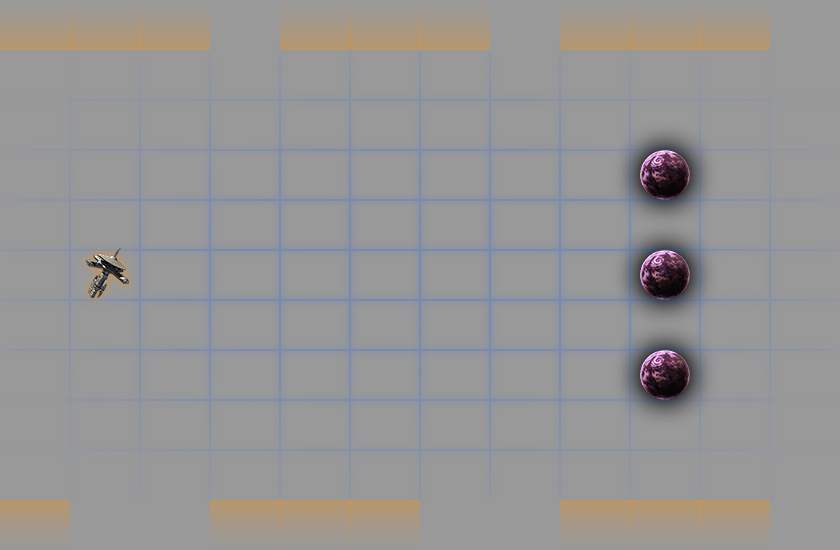
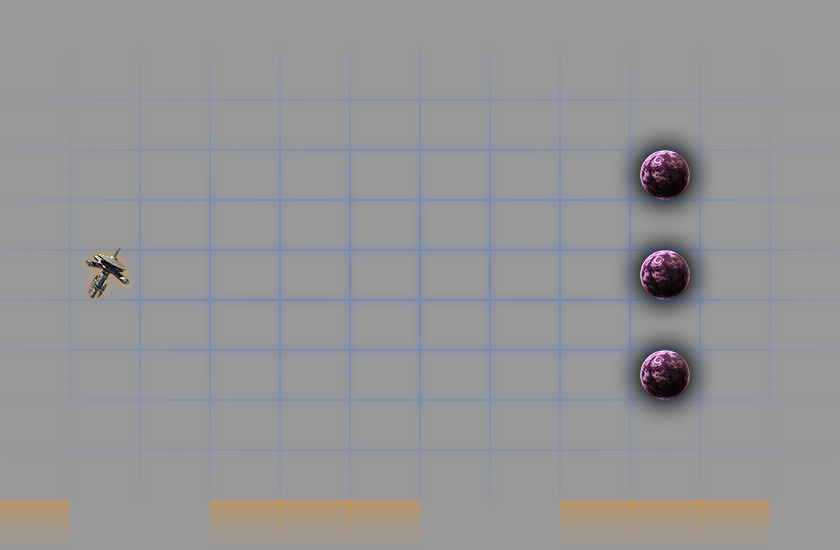
(feat) Update board art and add remaining routes bar sprite

Changed region(s): [[0.65, 0.0309, 0.9286, 0.0927], [0.3095, 0.0309, 0.5881, 0.0927], [0.0, 0.0309, 0.2476, 0.0927]]

diff --git a/client/phaser-app/game.js b/client/phaser-app/game.js
@@ -8,6 +8,7 @@ var gameState = {
     game.load.image('planet-true', 'phaser-app/assets/planet-true.png');
     game.load.image('planet-false', 'phaser-app/assets/planet-false.png');
     game.load.image('discard', 'phaser-app/assets/discard-icon.png');
+    game.load.image('remaining-routes-bar', 'phaser-app/assets/remaining-routes-bar.png');
 
     game.load.image('dead-end-horizontal-half', 'phaser-app/assets/dead-end-horizontal-half.png');
     game.load.image('dead-end-horizontal-T', 'phaser-app/assets/dead-end-horizontal-T.png');

diff --git a/client/main-app/game/socket.js b/client/main-app/game/socket.js
@@ -18,6 +18,13 @@ function startSocketListeners($scope) {
             tileId: 'discard-1'
           }
         });
+    // display remaining routes bar
+    createStaticTile({x: 0,
+          y: 0,
+          tile: {
+            tileId: 'remaining-routes-bar-1'
+          }
+        });
     // display role
     var role = game.add.image(770, 500, data.role);
     role.height = 50;
